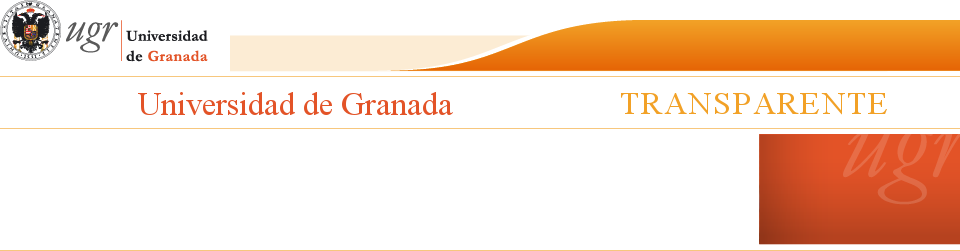
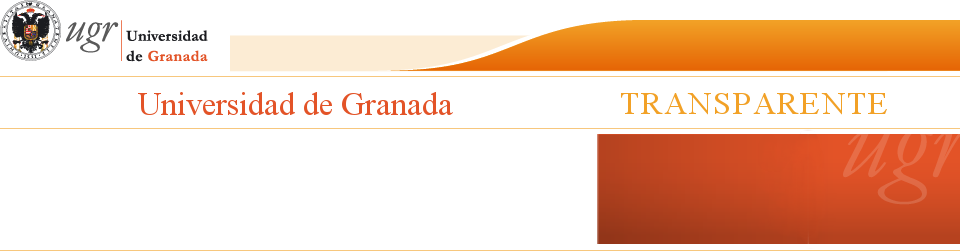
Se han modificado las imágenes para que esté todo bien maquetado

Changed region(s): [[0.625, 0.5299, 1.0, 0.9761]]

diff --git a/public/css/style2.css b/public/css/style2.css
@@ -17,7 +17,7 @@ div#cabecera div#formulario_buscar input#submit_buscar{width:19px;height:19px}
 div#cabecera div#language_selector{}
 div#cabecera div#language_selector_container div#language_selector{border-left:1px solid #9a999d;padding-left:5px}
 div#cabecera div#language_selector a{display:inline-block;line-height:17px;padding-left:0px;padding-right:0px;border-right-width:0}
-div#cabecera div#head_menu_services{position:absolute;right:0;top:134px;height:110px;width:201px}
+div#cabecera div#head_menu_services{position: absolute;right: 70px;top: 140px;height: 110px;/*width: 201px;*/}
 div#cabecera div#head_menu_services ul{margin-left:17px;margin-right:10px;margin-top:5px}
 div#cabecera div#head_menu_services li{min-height:21px;padding-top:2px;padding-left:26px;margin-bottom:4px}
 div#cabecera div#head_menu_services li a{display:block;margin-left:20px;padding-left:5px}
